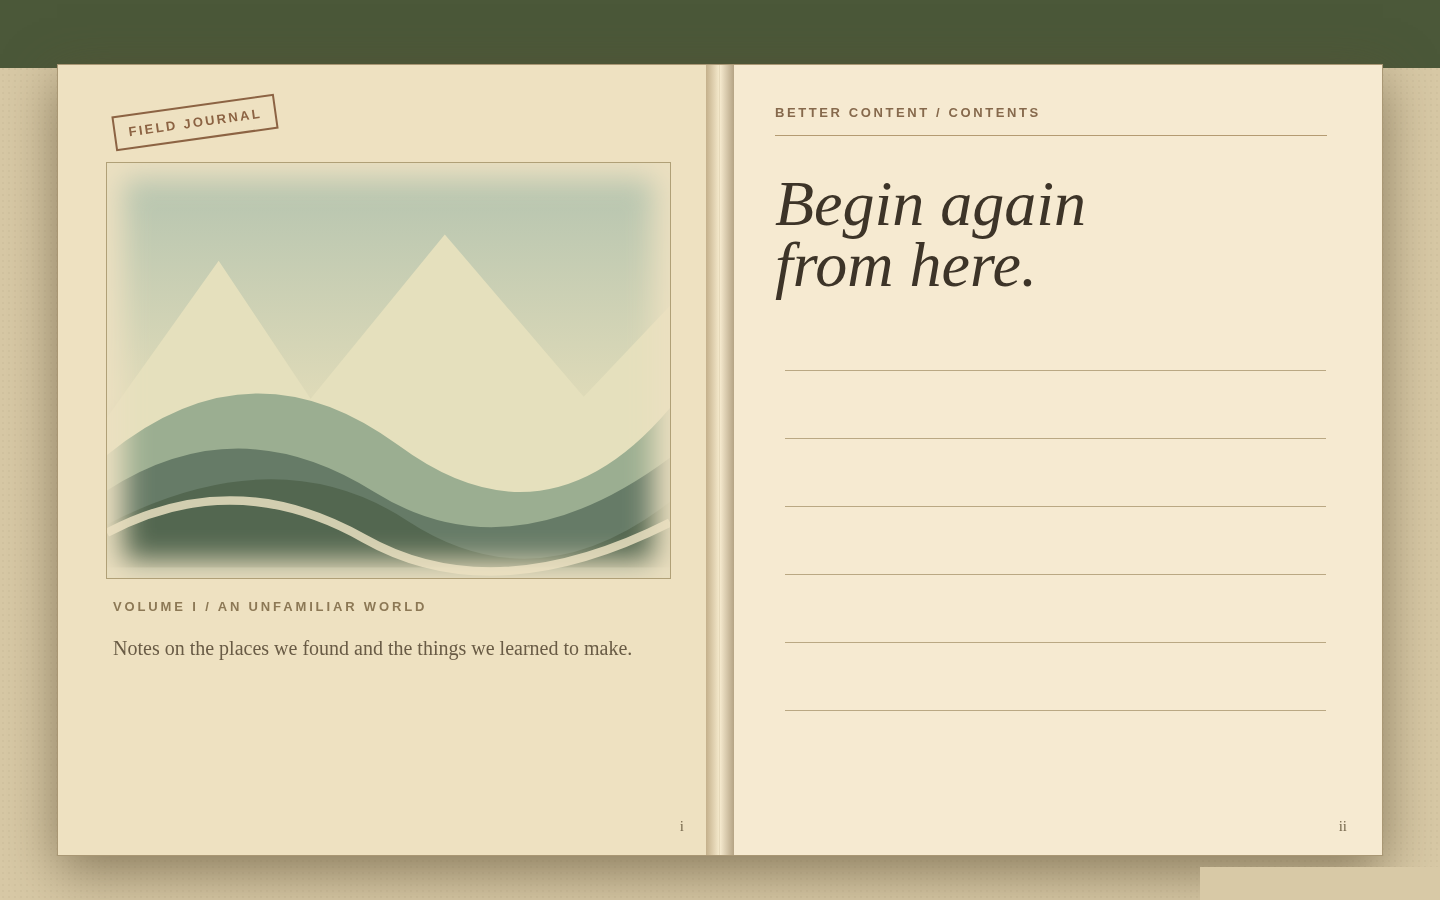
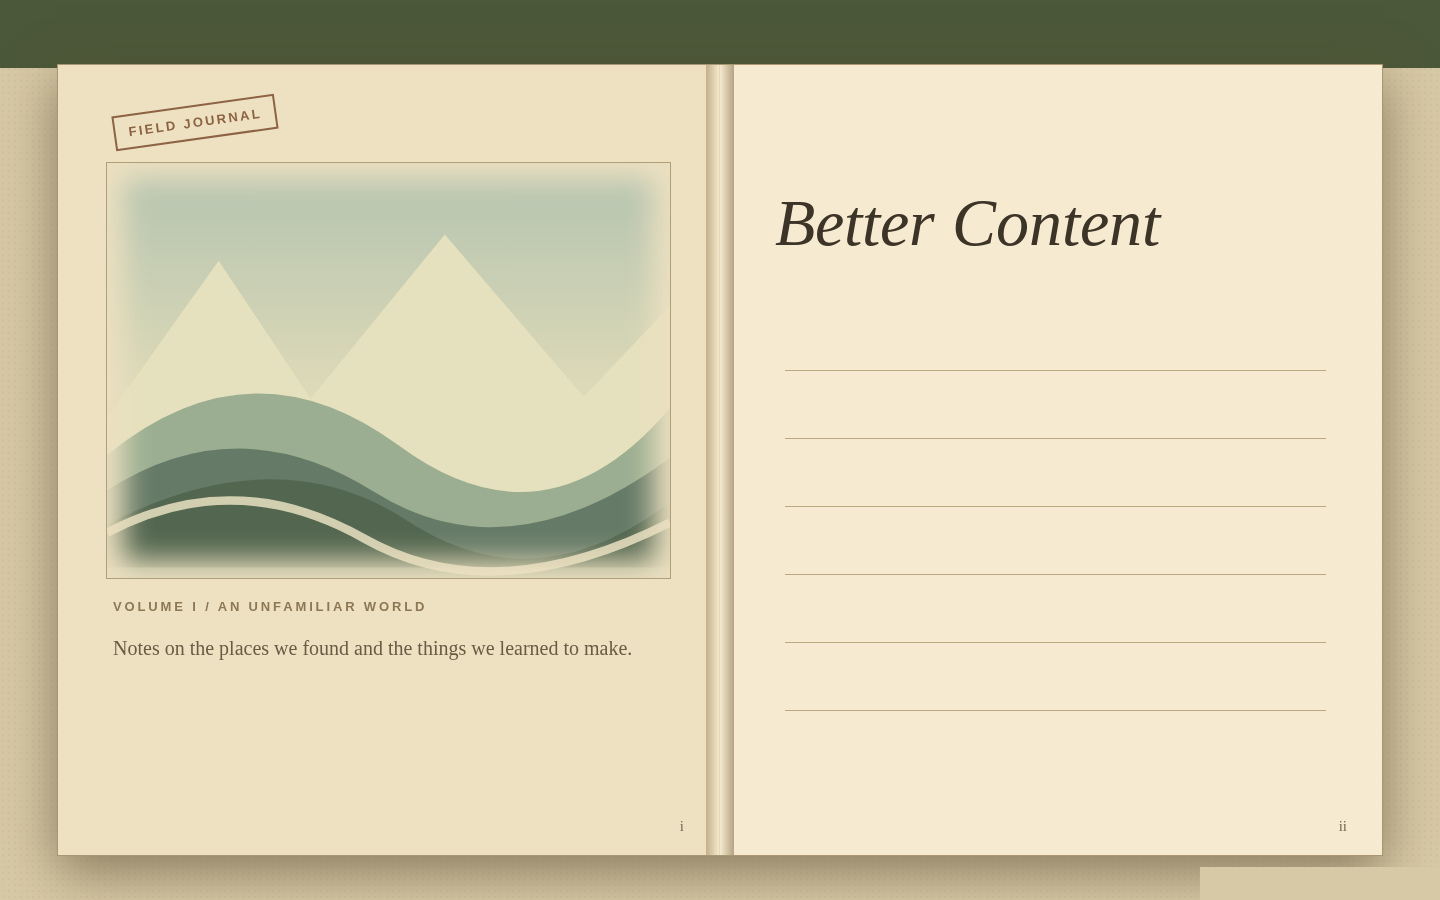
Finish journal menus and grass-to-backpack progression

Changed region(s): [[0.5312, 0.1867, 0.8125, 0.3422], [0.6562, 0.1244, 0.7188, 0.1556], [0.5625, 0.1244, 0.625, 0.1556]]

diff --git a/config/emi.css b/config/emi.css
@@ -103,12 +103,12 @@
 	/**
 	 * Whether the EMI config button should be visible.
 	 */
-	emi-config-button-visibility: shown;
+	emi-config-button-visibility: hidden;
 
 	/**
 	 * Whether the recipe tree button should be visible.
 	 */
-	recipe-tree-button-visibility: auto;
+	recipe-tree-button-visibility: hidden;
 
 	/**
 	 * The maximum height the recipe screen will grow to be if space is available in
@@ -167,7 +167,7 @@
 	/**
 	 * The pages in the left sidebar
 	 */
-	left-sidebar-pages: favorites;
+	left-sidebar-pages: none;
 
 	/**
 	 * The subpanels in the left sidebar
@@ -202,7 +202,7 @@
 	/**
 	 * The pages in the right sidebar
 	 */
-	right-sidebar-pages: index, craftables;
+	right-sidebar-pages: index, craftables, favorites;
 
 	/**
 	 * The subpanels in the right sidebar
@@ -212,12 +212,12 @@
 	/**
 	 * How many columns and rows of ingredients to limit the right sidebar to
 	 */
-	right-sidebar-size: 14, 22;
+	right-sidebar-size: 14, 25;
 
 	/**
 	 * How much space to maintain between the right sidebar and obstructions, in pixels
 	 */
-	right-sidebar-margins: 38, 14, 32, 14;
+	right-sidebar-margins: 38, 14, 14, 14;
 
 	/**
 	 * Where to position the right sidebar

diff --git a/kubejs/server_scripts/progression/00_primitive_workshop.js b/kubejs/server_scripts/progression/00_primitive_workshop.js
@@ -3,6 +3,21 @@
 // recipes preserve crop-specific upstream routes while ensuring generic
 // workshop utilities do not depend on origin-controlled cultivars.
 ServerEvents.recipes(function (event) {
+    // A knife cut on grass yields straw; both backpack ingredients come from it.
+    event.shaped('2x minecraft:string', ['SSS'], {
+        S: 'farmersdelight:straw'
+    }).id('kubejs:primitive_workshop/string_from_straw')
+    event.remove({ id: 'sophisticatedbackpacks:backpack' })
+    event.custom({
+        type: 'sophisticatedbackpacks:basic_backpack',
+        pattern: ['CCC', 'CSC', 'CCC'],
+        key: {
+            C: { item: 'farmersdelight:canvas' },
+            S: { item: 'minecraft:string' }
+        },
+        result: { item: 'sophisticatedbackpacks:backpack' }
+    }).id('kubejs:primitive_workshop/backpack_from_canvas')
+
     event.remove({ id: 'create:crafting/kinetics/chute' })
     event.shaped('4x create:chute', ['NCN', 'C C', 'NCN'], {
         N: '#forge:nuggets/iron', C: 'farmersdelight:canvas'

diff --git a/docs/threads.md b/docs/threads.md
@@ -1,13 +1,13 @@
 # Threads
 
-Threads answers “what just happened to me?” through 52 discoveries. Each card gives the
+Threads answers “what just happened to me?” through 53 discoveries. Each card gives the
 experienced event, its cause, and a useful next step. Gameplay does not have separate
 reveal and completion stages. Exact recipes and apparatus remain in EMI, Ponder, and
 native guides; survival fundamentals remain in the 18 loading/Lessons entries.
 
 The canonical definitions, trigger routes, and art scene specifications live in
 [`Learning Surfaces authoring roster`](../../mod_source/better-content-threads/authoring/discoveries.json).
-All 52 cards have reviewed Journal copperplate illustrations. Their intended scenes
+All 53 cards have reviewed Journal copperplate illustrations. Their intended scenes
 remain in the authoring roster. The packaged card
 catalogue is `bc.learning_surfaces.cards.v1`; the mod network protocol is 1. The new mod
 identity starts fresh without saved-history migration. Cards, lessons, and tips are fixed
@@ -69,7 +69,7 @@ are documented in the [source teaching guide](../../mod_source/better-content-th
 
 ## Review
 
-All 52 card illustrations and 18 loading illustrations follow the
+All 53 card illustrations and 18 loading illustrations follow the
 [no-humans art direction](thread_art_direction.md). The Learning Surfaces repository's required
 local gate is `./gradlew verifyFull stageRuntimeJar`; isolated real-client fixtures
 review compact/wide journal and native death-screen rendering. Provider repositories

diff --git a/docs/learning_surfaces.md b/docs/learning_surfaces.md
@@ -35,7 +35,7 @@ copy. Possession must not be described as operating a machine, and intended futu
 behavior must not be presented as implemented.
 
 Preserve stable concept, Thread, and lesson identities when their meaning is unchanged.
-Learning Surfaces has 52 live cards across seven topics; the Lessons reference and loading
+Learning Surfaces has 53 live cards across seven topics; the Lessons reference and loading
 rotation share 18 lessons. The main-menu, Esc, and death contexts share 199 authored tips. Follow [Threads](threads.md) for the single-explanation schema,
 personal trigger evidence, native doorways, and lineage persistence. Domain mods
 own their gameplay events; Learning Surfaces adapters translate those events into card signals.
@@ -106,7 +106,7 @@ change artwork but cannot reload copy or trigger rules while running.
 
 All card and loading illustrations exclude humans, humanoids, humanlike spirits, body parts,
 silhouettes and mannequins. Use concrete objects, mechanisms, environments, and nonhumanoid
-creatures to explain the event. All 52 card illustrations and 18 loading/Lessons
+creatures to explain the event. All 53 card illustrations and 18 loading/Lessons
 illustrations use reviewed Journal copperplate art; the card copy and triggers are active.
 
 ## Review and validation

diff --git a/docs/thread_art_direction.md b/docs/thread_art_direction.md
@@ -20,13 +20,13 @@ frames, UI, logos, and watermarks. Code owns framing and typography. Do not impo
 unrelated occult symbols, forced aspect links, or recurring mystery motifs.
 
 Card masters are 2:3 portraits. Ship 256×384 full-color images and grayscale thumbnails,
-plus cosmetic item derivatives whose predicate follows the global card order 1–52.
+plus cosmetic item derivatives whose predicate follows the global card order 1–53.
 Loading masters are 2:1 landscapes and ship at 512×256. Seven topics organize the reader;
 they do not require a whole-image tint or the retired four-suit composition rules.
 
 ## Editable source and review
 
-The 52 card scenes and teaching definitions are maintained in
+The 53 card scenes and teaching definitions are maintained in
 [`authoring/discoveries.json`](../../mod_source/better-content-threads/authoring/discoveries.json).
 [`art-grammar.txt`](../../mod_source/better-content-threads/authoring/art-grammar.txt)
 contains the shared generation prompt. Exact prompts, original image-generation paths,
